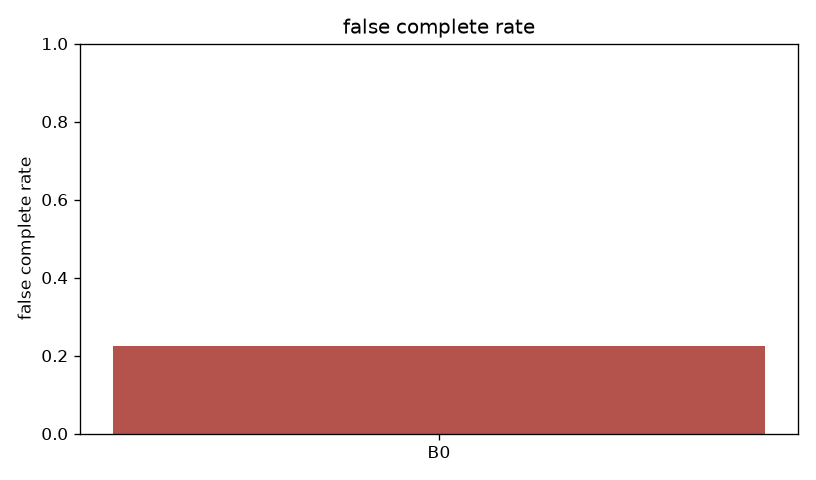
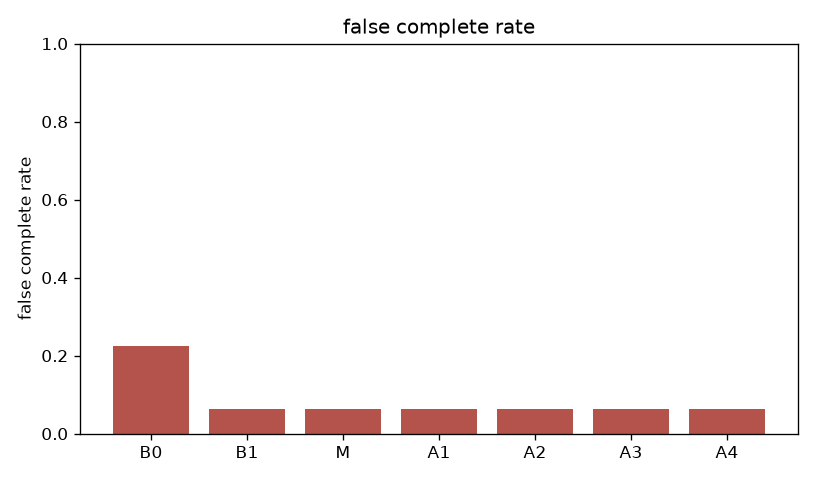
汇总折外对比、消融及失败案例

diff --git a/EXPERIMENTS.md b/EXPERIMENTS.md
@@ -7,17 +7,36 @@
 | ID | 配置 | 回答的问题 | 训练配置 | 状态 |
 | --- | --- | --- | --- | --- |
 | B0 | 原始 Qwen3-VL-2B，统一提示，直接推理 | 原模型在真实场景中的表现 | — | `runs/B0_s001/eval/` |
-| B1 | 真实图，普通领域 LoRA，只有主任务，随机采样 | 单纯领域适应的效果 | `configs/train/B1.yaml` | 待测 |
-| M | 真实图与合成图，成对辅助、困难负样本加权、状态均衡与 unknown 监督 | 完整方法是否有效 | `configs/train/M.yaml` | 待测 |
-| A1 | M 去掉成对辅助任务 | 成对存在性监督的贡献 | `configs/train/A1.yaml` | 待测 |
-| A2 | M 去掉困难负样本加权 | 困难负样本策略的贡献 | `configs/train/A2.yaml` | 待测 |
-| A3 | M 去掉 unknown 样本 | unknown 监督的收益与代价 | `configs/train/A3.yaml` | 待测 |
-| A4 | M 的混合策略，仅用真实图 | 合成训练图的贡献 | `configs/train/A4.yaml` | 待测 |
+| B1 | 真实图，普通领域 LoRA，只有主任务，随机采样 | 单纯领域适应的效果 | `configs/train/B1.yaml` | `runs/B1_cv3/eval/` |
+| M | 真实图与合成图，成对辅助、困难负样本加权、状态均衡与 unknown 监督 | 完整方法是否有效 | `configs/train/M.yaml` | `runs/M_cv3/eval/` |
+| A1 | M 去掉成对辅助任务 | 成对存在性监督的贡献 | `configs/train/A1.yaml` | `runs/A1_cv3/eval/` |
+| A2 | M 去掉困难负样本加权 | 困难负样本策略的贡献 | `configs/train/A2.yaml` | `runs/A2_cv3/eval/` |
+| A3 | M 去掉 unknown 样本 | unknown 监督的收益与代价 | `configs/train/A3.yaml` | `runs/A3_cv3/eval/` |
+| A4 | M 的混合策略，仅用真实图 | 合成训练图的贡献 | `configs/train/A4.yaml` | `runs/A4_cv3/eval/` |
 
 - 固定三折按摆放组划分。三折测试分别有 25、17、8 张真实图，同一图的两条问法随图分组。合成图继承来源图的摆放组，仅用于训练折。
 - 所有方法和折共用 50 个优化步、有效 batch 16 和随机种子 42。步数依据训练 loss 与各折训练池大小确定，见 `docs/NEXT_STEPS.md`。测试折用于最终预测和评分。数据、配置和实际步数由 manifest 记录。
 - 主要指标：误报齐全率（附分母）、决策准确率、三状态宏 F1、缺失集合 F1、unknown 召回与覆盖率、成对一致性、JSON 有效率；按 `scene_group_id` 做 bootstrap 95% 置信区间。定义见 `contracts/metrics.md`。
 - 真实样本来自 1 个批次、9 个摆放组。聚类 bootstrap 标注样本不足，三折大小不均。全量 checklist 的每个真实 pair 有四条样本，冻结的成对一致性规则要求恰好两条，因此主表该项为无定义。
+
+### 折外结果与逐样本复核
+
+| 方法 | 决策准确率 | 误报齐全率 | unknown 召回 |
+| --- | ---: | ---: | ---: |
+| B0 | 80/100 | 7/31 | 2/18 |
+| B1 | 87/100 | 2/31 | 0/18 |
+| M | 86/100 | 2/31 | 1/18 |
+| A1 | 88/100 | 2/31 | 1/18 |
+| A2 | 87/100 | 2/31 | 2/18 |
+| A3 | 91/100 | 2/31 | 0/18 |
+| A4 | 87/100 | 2/31 | 0/18 |
+
+- B1 和 M 各少了 5 次误报齐全，点估计从 7/31 降为 2/31。与 B0 相比，两者的决策准确率分别多 7、6 条。按摆放组成对 bootstrap，准确率差的 95% 区间分别为 [−2.1, +21.6]、[−4.0, +21.6] 个百分点，差异不显著，样本不足。
+- 在相同混合策略下，M 相比真实图 A4 少判对 1 条，误报齐全持平，unknown 多召回 1 个。准确率差异不显著，样本不足，合成训练图的整体收益在这组数据中未得到验证。
+- A1、A2 分别比 M 多判对 2 条和 1 条，准确率差异不显著，样本不足。A1 的 unknown 召回与 M 相同，A2 多召回 1 个。A3 去掉 unknown 监督后多判对 5 条，unknown 召回为 0/18。所有消融的误报齐全率均为 2/31。
+- 第 14、22、27、32 张各两条问法。B0 将缺失的万用表判为 `present` 共 6/8 条，其中 4 条造成误报齐全。M 八条均判为 `absent`。B1 七条判为 `absent`，第 14 张第一条判为 `unknown`。B0、B1、M 分别把 23、1、4 条真值明确的螺丝刀状态判成 `unknown`。真实遮挡条件下 14 个 unknown 类别标签，B0 和 B1 均召回 0 个，M 召回 1 个。
+
+各区间与样例 ID 见 [逐样本复核](runs/comparison/cv_case_review.txt)，完整指标见 [方法对比](runs/comparison/comparison.md)。两类真实干扰均集中在单个摆放组，unknown 结果需用独立采集验证。
 
 ## 2. 分辨率与量化
 

diff --git a/runs/comparison/comparison.md b/runs/comparison/comparison.md
@@ -4,23 +4,23 @@
 
 | 指标 | B0 | B1 | M | A1 | A2 | A3 | A4 |
 | --- | --- | --- | --- | --- | --- | --- | --- |
-| 三状态准确率 | 0.8880 (444/500) | 待测 | 待测 | 待测 | 待测 | 待测 | 待测 |
-| 宏平均 F1 | 0.6179（3/3 类） | 待测 | 待测 | 待测 | 待测 | 待测 | 待测 |
-| 决策准确率 | 0.8000 (80/100) | 待测 | 待测 | 待测 | 待测 | 待测 | 待测 |
-| 误报齐全率 | 0.2258 (7/31) | 待测 | 待测 | 待测 | 待测 | 待测 | 待测 |
-| unknown 样本误判齐全率 | 0.4286 (3/7) | 待测 | 待测 | 待测 | 待测 | 待测 | 待测 |
-| unknown 召回 | 0.1111 (2/18) | 待测 | 待测 | 待测 | 待测 | 待测 | 待测 |
-| 明确回答覆盖率 | 0.9502 (458/482) | 待测 | 待测 | 待测 | 待测 | 待测 | 待测 |
-| 明确回答子集准确率 | 0.9651 (442/458) | 待测 | 待测 | 待测 | 待测 | 待测 | 待测 |
-| 缺失集合精确率 | 0.7941 (27/34) | 待测 | 待测 | 待测 | 待测 | 待测 | 待测 |
-| 缺失集合召回率 | 0.7500 (27/36) | 待测 | 待测 | 待测 | 待测 | 待测 | 待测 |
-| 缺失集合 F1 | 0.7714 (54/70) | 待测 | 待测 | 待测 | 待测 | 待测 | 待测 |
-| 集合完全匹配率 | 0.7700 (77/100) | 待测 | 待测 | 待测 | 待测 | 待测 | 待测 |
-| JSON 有效率 | 1.0000 (100/100) | 待测 | 待测 | 待测 | 待测 | 待测 | 待测 |
-| 重试率 | 0.0000 (0/100) | 待测 | 待测 | 待测 | 待测 | 待测 | 待测 |
-| 失败率 | 0.0000 (0/100) | 待测 | 待测 | 待测 | 待测 | 待测 | 待测 |
-| presence 准确率 | 无定义（分母为 0） | 待测 | 待测 | 待测 | 待测 | 待测 | 待测 |
-| 成对一致性 | 无定义（分母为 0） | 待测 | 待测 | 待测 | 待测 | 待测 | 待测 |
+| 三状态准确率 | 0.8880 (444/500) | 0.9460 (473/500) | 0.9360 (468/500) | 0.9500 (475/500) | 0.9440 (472/500) | 0.9600 (480/500) | 0.9440 (472/500) |
+| 宏平均 F1 | 0.6179（3/3 类） | 0.6287（3/3 类） | 0.6382（3/3 类） | 0.6619（3/3 类） | 0.6696（3/3 类） | 0.6356（3/3 类） | 0.6240（3/3 类） |
+| 决策准确率 | 0.8000 (80/100) | 0.8700 (87/100) | 0.8600 (86/100) | 0.8800 (88/100) | 0.8700 (87/100) | 0.9100 (91/100) | 0.8700 (87/100) |
+| 误报齐全率 | 0.2258 (7/31) | 0.0645 (2/31) | 0.0645 (2/31) | 0.0645 (2/31) | 0.0645 (2/31) | 0.0645 (2/31) | 0.0645 (2/31) |
+| unknown 样本误判齐全率 | 0.4286 (3/7) | 0.2857 (2/7) | 0.2857 (2/7) | 0.2857 (2/7) | 0.2857 (2/7) | 0.2857 (2/7) | 0.2857 (2/7) |
+| unknown 召回 | 0.1111 (2/18) | 0.0000 (0/18) | 0.0556 (1/18) | 0.0556 (1/18) | 0.1111 (2/18) | 0.0000 (0/18) | 0.0000 (0/18) |
+| 明确回答覆盖率 | 0.9502 (458/482) | 0.9855 (475/482) | 0.9730 (469/482) | 0.9876 (476/482) | 0.9793 (472/482) | 1.0000 (482/482) | 0.9834 (474/482) |
+| 明确回答子集准确率 | 0.9651 (442/458) | 0.9958 (473/475) | 0.9957 (467/469) | 0.9958 (474/476) | 0.9958 (470/472) | 0.9959 (480/482) | 0.9958 (472/474) |
+| 缺失集合精确率 | 0.7941 (27/34) | 0.8684 (33/38) | 0.8611 (31/36) | 0.8718 (34/39) | 0.8649 (32/37) | 0.8718 (34/39) | 0.8649 (32/37) |
+| 缺失集合召回率 | 0.7500 (27/36) | 0.9167 (33/36) | 0.8611 (31/36) | 0.9444 (34/36) | 0.8889 (32/36) | 0.9444 (34/36) | 0.8889 (32/36) |
+| 缺失集合 F1 | 0.7714 (54/70) | 0.8919 (66/74) | 0.8611 (62/72) | 0.9067 (68/75) | 0.8767 (64/73) | 0.9067 (68/75) | 0.8767 (64/73) |
+| 集合完全匹配率 | 0.7700 (77/100) | 0.8700 (87/100) | 0.8600 (86/100) | 0.8800 (88/100) | 0.8600 (86/100) | 0.9100 (91/100) | 0.8700 (87/100) |
+| JSON 有效率 | 1.0000 (100/100) | 1.0000 (100/100) | 1.0000 (100/100) | 1.0000 (100/100) | 1.0000 (100/100) | 1.0000 (100/100) | 1.0000 (100/100) |
+| 重试率 | 0.0000 (0/100) | 0.0000 (0/100) | 0.0000 (0/100) | 0.0000 (0/100) | 0.0000 (0/100) | 0.0000 (0/100) | 0.0000 (0/100) |
+| 失败率 | 0.0000 (0/100) | 0.0000 (0/100) | 0.0000 (0/100) | 0.0000 (0/100) | 0.0000 (0/100) | 0.0000 (0/100) | 0.0000 (0/100) |
+| presence 准确率 | 无定义（分母为 0） | 无定义（分母为 0） | 无定义（分母为 0） | 无定义（分母为 0） | 无定义（分母为 0） | 无定义（分母为 0） | 无定义（分母为 0） |
+| 成对一致性 | 无定义（分母为 0） | 无定义（分母为 0） | 无定义（分母为 0） | 无定义（分母为 0） | 无定义（分母为 0） | 无定义（分母为 0） | 无定义（分母为 0） |
 
 ## 分辨率与量化矩阵
 

diff --git a/docs/NEXT_STEPS.md b/docs/NEXT_STEPS.md
@@ -34,6 +34,8 @@ printf '%s\n' "$!" > runs/logs/cv3_main.pid.log
 
 ### 第 2 步：汇总对比表并写结论（任务 D）
 
+**已完成。** 12 组运行重新出表，三折方法列全部有实测值。6 种 LoRA 方法的误报齐全率均为 2/31，B0 为 7/31。M 决策准确率 86/100、unknown 召回 1/18。没有方法满足严格更低的误报齐全率，按预定规则保留 M。逐样本结果与成对区间见 `runs/comparison/cv_case_review.txt`，结论见 `EXPERIMENTS.md`。
+
 ```bash
 $P scripts/eval_compare.py --runs-root runs --out runs/comparison
 ```
@@ -135,7 +137,7 @@ scripts/make_jetson_bundle.sh artifacts/quantized/final release/jetson_bundle_fi
   - 器材框（已人工复核，可当真值）：`data/annotations/annotations.json`，格式见 `data/annotations/README.md`（`cable` = `cable_bundle`，坐标 xyxy 像素）。
   - 摆放分组（按框位置确定，跨组无近重复）：第 1–6 张 l001–l006 各一组，7–8 张 l007，9–25 张 l008，26–50 张 l009。
 - B0（原模型，Transformers bf16，512²）已在全部 50 张上评测：`runs/B0_s001/eval/metrics.md`。
-  决策准确率 80/100，**误报齐全率 7/31**，unknown 召回 2/18。典型错误：桌上有红黑线缆但没有万用表时判"万用表在"（第 14、22、27、32 张）；螺丝刀常被判 unknown（14 张）；遮挡时不说 unknown。
+  决策准确率 80/100，**误报齐全率 7/31**，unknown 召回 2/18。典型错误包括第 14、22、27、32 张的万用表误判，18 张照片的 23 条明确螺丝刀状态被判 unknown，以及真实遮挡子集的 unknown 召回 0/14。
 
 ## 1. 已定的方案（用户已确认）
 

diff --git a/STATUS.md b/STATUS.md
@@ -1,6 +1,6 @@
 # 项目状态
 
-更新于 2026-11-21。正式三折已完成，恢复命令见 [本轮计划](docs/NEXT_STEPS.md)。
+更新于 2026-11-21。正式三折和结果复核已完成，恢复命令见 [本轮计划](docs/NEXT_STEPS.md)。
 
 | 阶段 | 内容 | 状态 | 证据 |
 | --- | --- | --- | --- |
@@ -15,6 +15,7 @@
 | P3 | B0 服务器分辨率和量化扫描 | 已验证 | L40 上 BF16 三档、GGUF 三档，`runs/comparison/` |
 | P3 | LoRA 训练与固定三折入口，B1/M/A1–A4 配置 | B1、M 的真实训练子集试跑已通过 | `scripts/run_cv.py`，`work/cv3_pilot/` |
 | P3 | 正式训练与消融 | 18/18 折已复核 | 每折 50 步，B1、M、A1–A4 各 100 条真实折外预测。详见 `runs/cv3_folds/`、`runs/*_cv3/eval/` |
+| P3 | 对比与部署选择 | 完成 | B0 误报齐全 7/31，六种 LoRA 方法均为 2/31。M 决策准确率 86/100，unknown 召回 1/18，按规则保留 M。见 `EXPERIMENTS.md` |
 | P3 | 鲁棒性条件 | 九档数据校验及 B0 九档预测已完成，B1/M 待测 | `work/coursework/robust_runs/robust/`，`runs/logs/robust_B0_recovery.log` |
 | P3 | 评测代码（全部任务指标、bootstrap、出表） | 已验证（手算单测） | `src/qwen_vlm/evaluation/`，`tests/test_metrics.py` |
 | P4 | 量化与像素档的板端实测 | 等待用户 | `deploy/jetson/03_bench.sh` |

diff --git a/reports/readiness.md b/reports/readiness.md
@@ -4,6 +4,8 @@
 
 2026-11-20 更新。50 张真实照片均已标注，含 9 个摆放组和 100 条 checklist。L40 上已完成 B0 三档分辨率和三档量化评测，见 `runs/comparison/`。器材框增强和固定三折划分已用全部数据生成和校验，见 `data/splits/cv3/`。正式训练和板端实测的进度见 `STATUS.md` 与 `docs/NEXT_STEPS.md`。
 
+正式对比显示，六种 LoRA 方法的误报齐全率均为 2/31，B0 为 7/31，默认部署用 M。M 的决策准确率为 86/100，真实遮挡 unknown 召回为 1/14。消融、样本不足及逐样本复核见 `EXPERIMENTS.md`。
+
 以下保留了 2026-11-16 的开发验证记录，冒烟指标仅用于复核链路。正式实验的真实数据结果见 `STATUS.md` 和 `EXPERIMENTS.md`。
 
 ## 1. 已验证

diff --git a/HANDOFF.md b/HANDOFF.md
@@ -14,6 +14,7 @@
 | 真实照片 | `data/raw/session_001/` 共 50 张、9 个摆放组。状态与器材框已标注，用户已确认结束采集 |
 | 原模型真实基线 | 512² 已评测 100 条 checklist，决策准确率 80/100，误报齐全 7/31，unknown 召回 2/18。见 `runs/B0_s001/eval/` |
 | 正式三折 | B1、M、A1–A4 的 18/18 折已核对，每种方法 100 条折外预测。训练产物 `runs/cv3_folds/`，运行日志 `runs/logs/cv3_main.log` |
+| 对比与模型选择 | 六种 LoRA 方法均为 2/31 误报齐全，按预定规则保留 M。详见 `runs/comparison/` 和 `EXPERIMENTS.md` |
 
 当前里程碑见 `STATUS.md`，运行命令和恢复位置见 `docs/NEXT_STEPS.md`。接手时先核对运行目录下的 manifest 和日志。
 
